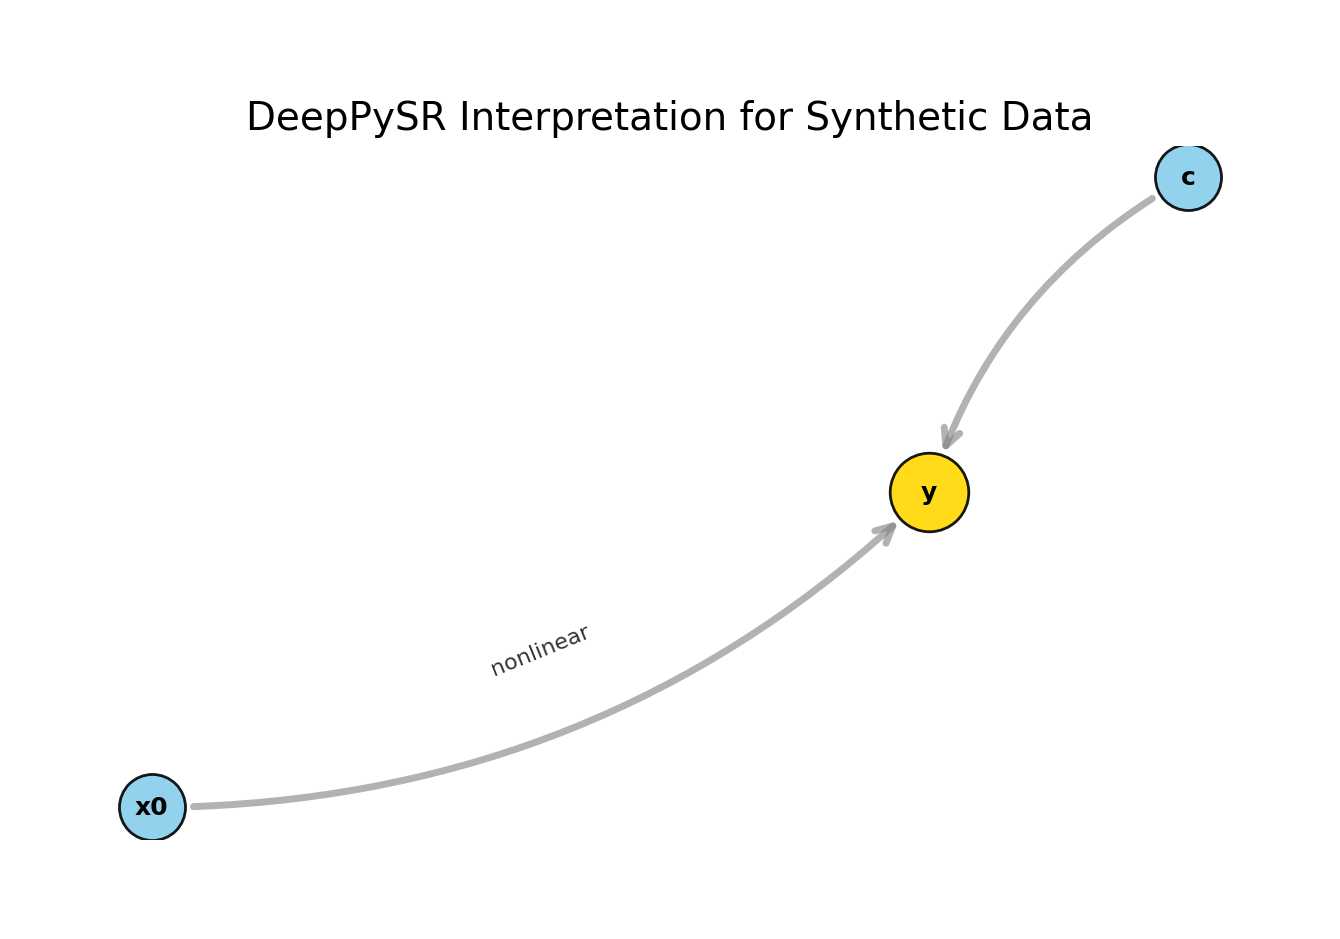
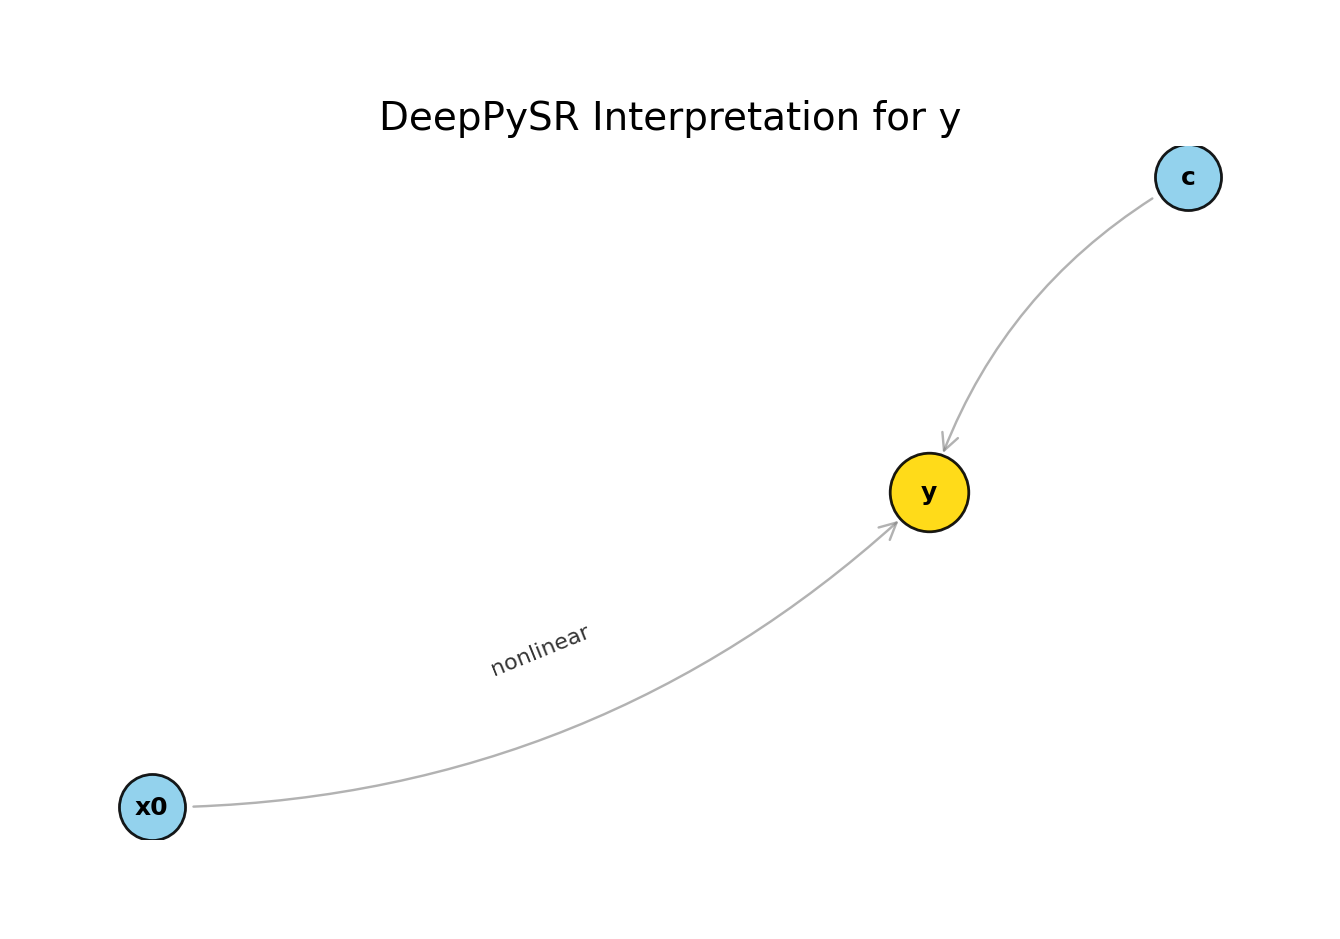
some updates

diff --git a/test/record_convergence.py b/test/record_convergence.py
@@ -82,14 +82,14 @@ def train_iteratively(model_provider, X, y, n_iterations, output_dir, pysr_kwarg
             break
     return pd.DataFrame(history)
 
-def run_cv_convergence(test_name, X, y, task='regression', n_iterations=500):
+def run_convergence(test_name, X, y, task='regression', n_iterations=500):
     print(f"\n{'='*60}\nDataset: {test_name} ({task})\n{'='*60}")
     
     X_values = X.values if hasattr(X, 'values') else X
     y_values = y.values if hasattr(y, 'values') else y
 
     pysr_kwargs = get_pysr_base_kwargs()
-    pysr_kwargs.update({"adaptive_parsimony_scaling":10.0})
+    pysr_kwargs.update({"adaptive_parsimony_scaling":10.0, "verbosity": 0,"save_to_file": False,})
     pysr_kwargs.pop("niterations", None)
     deeppysr_kwargs = pysr_kwargs.copy()
     deeppysr_kwargs.update({"variable_prune_start": 25, "variable_prune_ramp": 50, "variable_prune_max": 0.7})
@@ -131,7 +131,7 @@ def main():
     test_cases.append({'name': 'stroke/results_stroke_all/convergence', 'loader': load_stroke_data, 'task': 'classification','nit':100})
 
     # 6. Diabetes BRFSS (Classification)
-    test_cases.append({'name': 'diabetes/results_diabetes_all/convergence', 'loader': lambda: (load_diabetes_brfss_data()[0], load_diabetes_brfss_data()[1]), 'task': 'classification'})
+    test_cases.append({'name': 'diabetes/results_diabetes_all/convergence', 'loader': lambda: (load_diabetes_brfss_data()[0], load_diabetes_brfss_data()[1]), 'task': 'classification', 'nit':100})
 
     # 7. Diabetes 130US (Classification)
     test_cases.append({'name': 'diabetes130us/results_diabetes130us_all/convergence', 'loader': lambda: (load_diab130_data()[1], load_diab130_data()[2]), 'task': 'classification','nit':100})
@@ -145,7 +145,7 @@ def main():
         try:
             X, y = tc['loader']()
             n_iterations = tc.get('nit',500)
-            run_cv_convergence(tc['name'], X, y, task=tc['task'], n_iterations=n_iterations)
+            run_convergence(tc['name'], X, y, task=tc['task'], n_iterations=n_iterations)
         except Exception as e:
             print(f"Failed {tc['name']}: {e}")
 

diff --git a/demo/category_demo.py b/demo/category_demo.py
@@ -2,7 +2,6 @@ import numpy as np
 import pandas as pd
 import time, torch
 import kan as KAN
-from pysr import TemplateExpressionSpec
 from DeepPySR.regressor import DeepPySRRegressor
 from sklearn.metrics import r2_score
 import sympy
@@ -32,6 +31,7 @@ def run_deeppysr():
         "maxsize": 10,
         "model_selection": "best",
         "early_stop_condition": "f(loss, complexity) = (loss < 0.0001) && (complexity < 20)",
+        "save_to_file": False,
         "verbosity": 0,
         "denoise": True
     }

diff --git a/test/model_utils.py b/test/model_utils.py
@@ -477,7 +477,7 @@ def get_pysr_base_kwargs(os_cpu_count=None):
         "populations": 100,
         "population_size": 200,
         "ncycles_per_iteration": 200,
-        "verbosity": 1,
+        "verbosity": 0,
         "denoise": False, # Denoising can be very slow or get stuck, disabled for stability
         "turbo": False, # Disabled to avoid LoopVectorization warnings that clutter output
         "procs": default_procs,